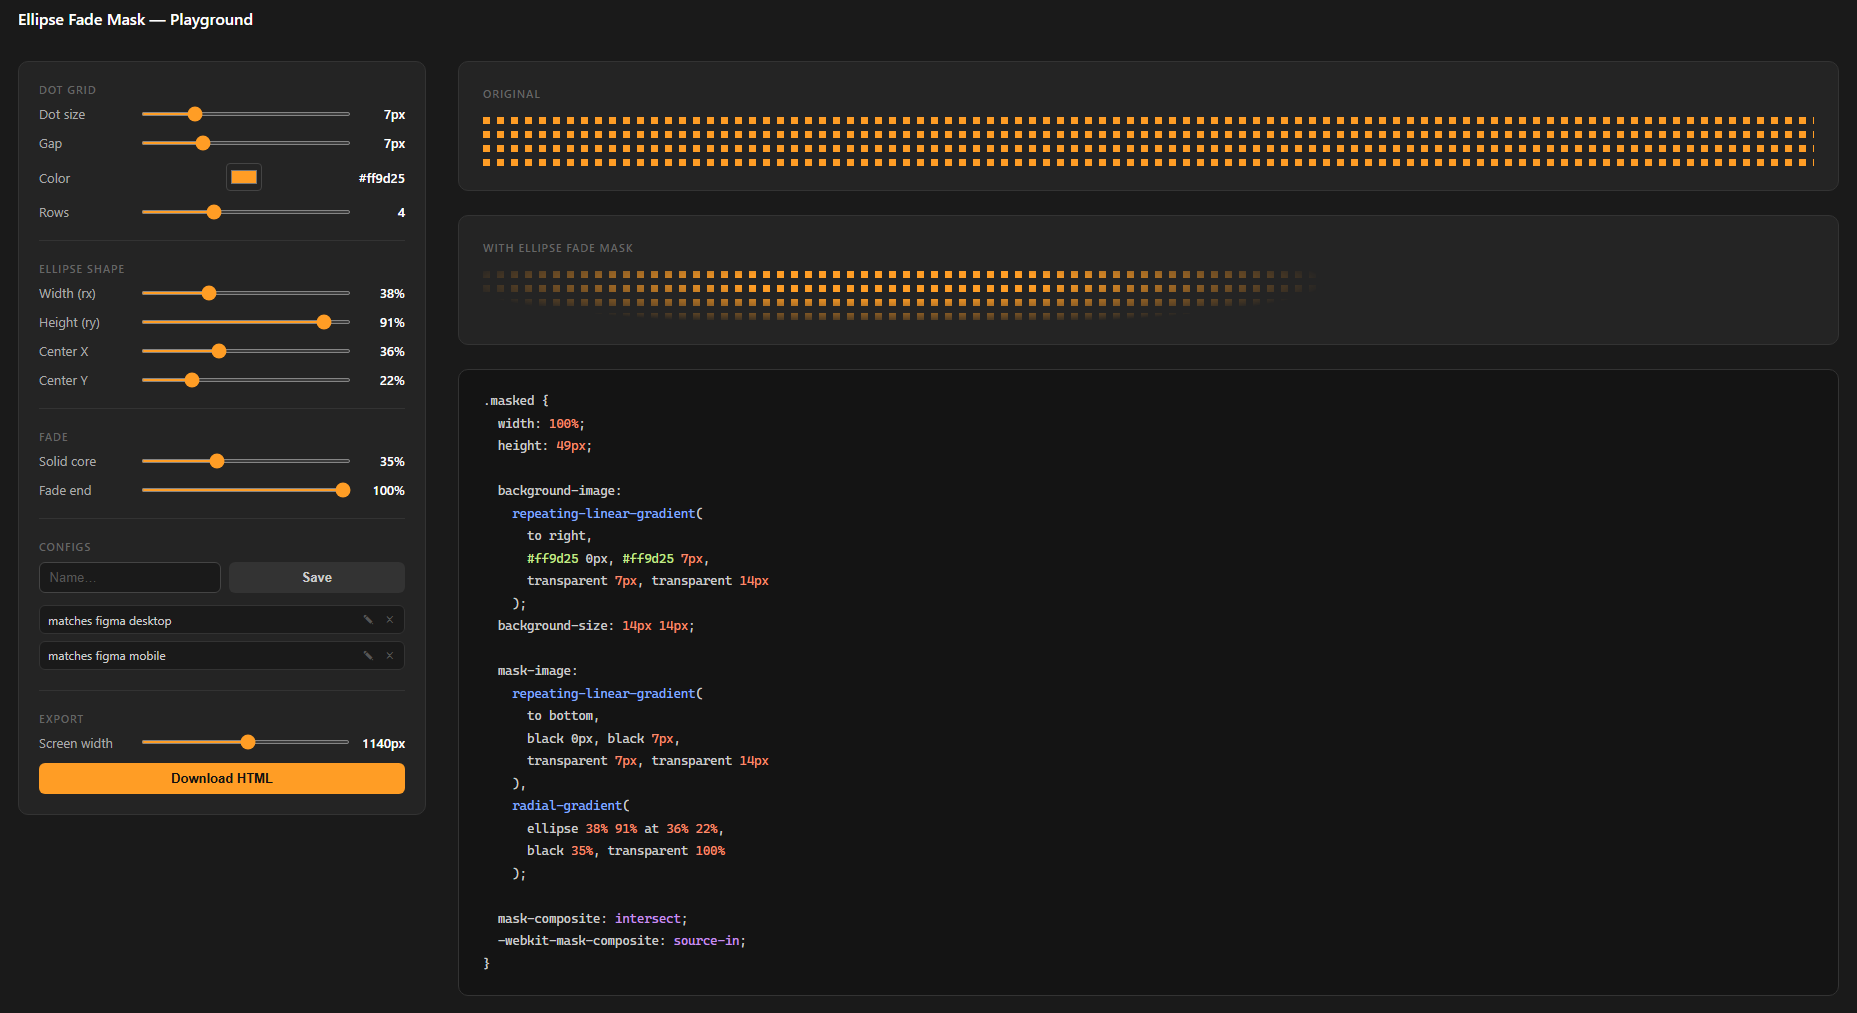
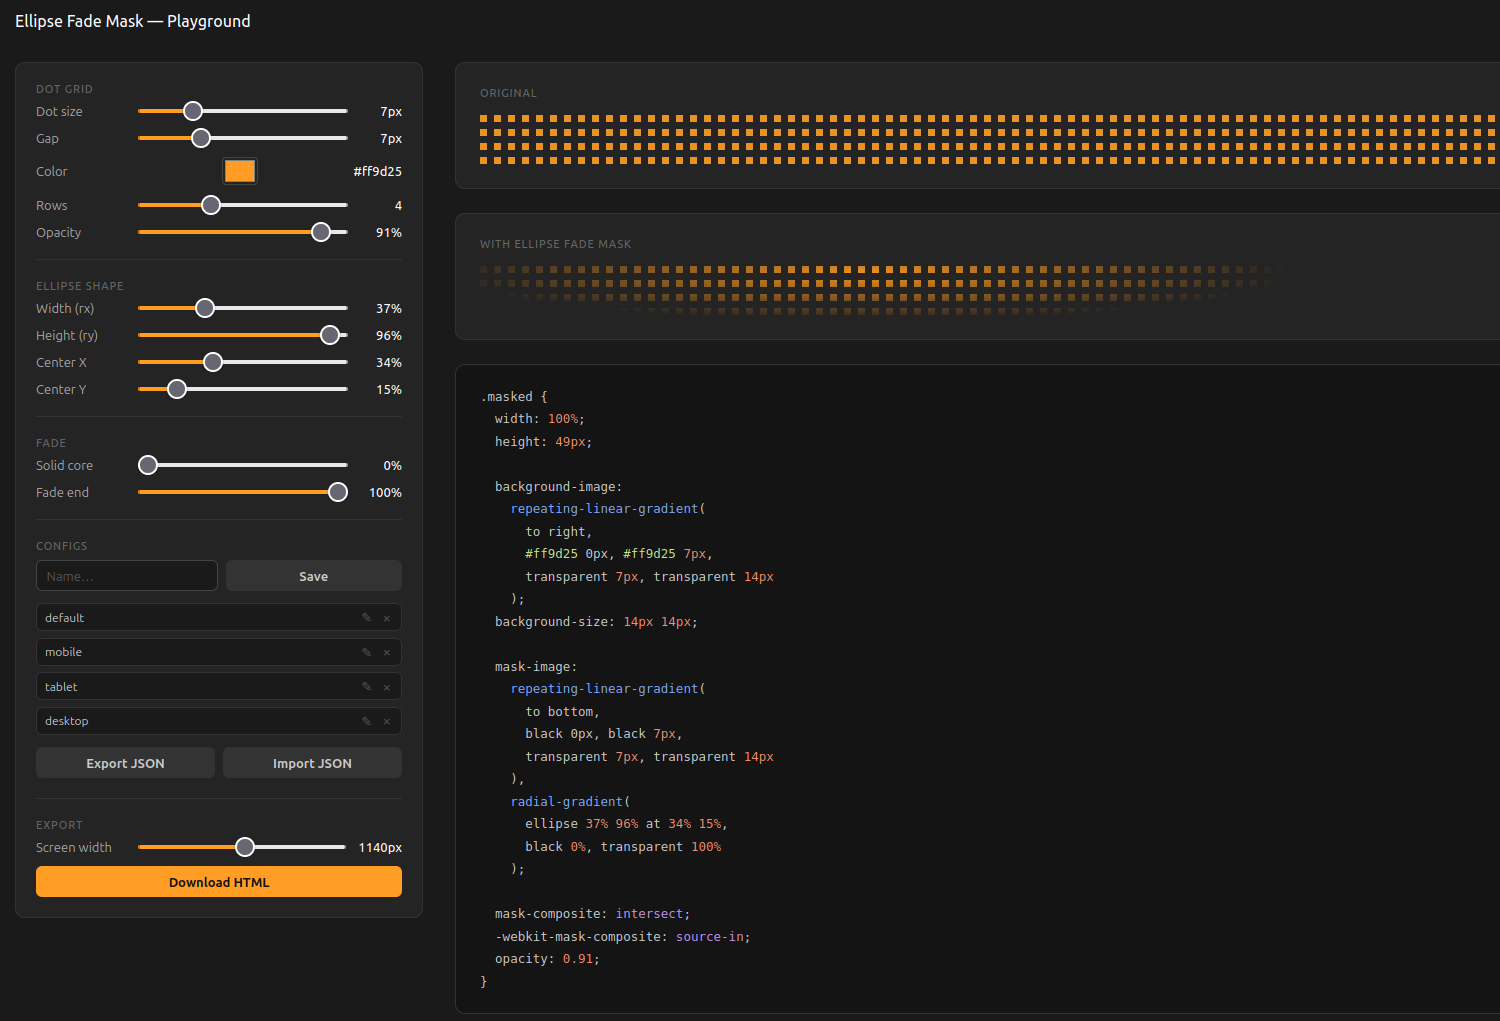
fixed saving of config in local storage, added examples in output folder, added a configs folder with an example config that matched the html files in the output folder

diff --git a/ellipse-mask-playground.html b/ellipse-mask-playground.html
@@ -281,6 +281,11 @@
           <input type="range" id="rows" min="1" max="10" value="4" step="1">
           <span class="val" id="rowsVal">4</span>
         </div>
+        <div class="row">
+          <label>Opacity</label>
+          <input type="range" id="opacity" min="0" max="100" value="100" step="1">
+          <span class="val" id="opacityVal">100%</span>
+        </div>
       </div>
     </div>
 
@@ -340,6 +345,11 @@
           <button class="btn" id="saveConfigBtn">Save</button>
         </div>
         <div class="saved-list" id="savedList"></div>
+        <div class="save-row">
+          <button class="btn" id="exportConfigsBtn">Export JSON</button>
+          <button class="btn" id="importConfigsBtn">Import JSON</button>
+          <input type="file" id="importConfigsInput" accept=".json" style="display:none">
+        </div>
       </div>
     </div>
 
@@ -384,7 +394,7 @@
 </div>
 
 <script>
-const ids = ['dotSize','gap','dotColor','rows','rx','ry','cx','cy','fadeStart','fadeEnd','exportWidth'];
+const ids = ['dotSize','gap','dotColor','rows','opacity','rx','ry','cx','cy','fadeStart','fadeEnd','exportWidth'];
 const els = {};
 ids.forEach(id => els[id] = document.getElementById(id));
 
@@ -396,6 +406,7 @@ function currentConfig() {
     gap: parseInt(v('gap')),
     color: v('dotColor'),
     rows: parseInt(v('rows')),
+    opacity: parseInt(v('opacity')),
     rx: parseInt(v('rx')),
     ry: parseInt(v('ry')),
     cx: parseInt(v('cx')),
@@ -407,7 +418,7 @@ function currentConfig() {
 }
 
 function update() {
-  const { dotSize, gap, color, rows, rx, ry, cx, cy, fadeStart, fadeEnd } = currentConfig();
+  const { dotSize, gap, color, rows, opacity, rx, ry, cx, cy, fadeStart, fadeEnd } = currentConfig();
   const step = dotSize + gap;
   const height = rows * step - gap;
 
@@ -415,6 +426,7 @@ function update() {
   document.getElementById('gapVal').textContent = gap + 'px';
   document.getElementById('dotColorVal').textContent = color;
   document.getElementById('rowsVal').textContent = rows;
+  document.getElementById('opacityVal').textContent = opacity + '%';
   document.getElementById('rxVal').textContent = rx + '%';
   document.getElementById('ryVal').textContent = ry + '%';
   document.getElementById('cxVal').textContent = cx + '%';
@@ -433,6 +445,7 @@ function update() {
   orig.style.backgroundSize = `${step}px ${step}px`;
   orig.style.maskImage = vGrad;
   orig.style.webkitMaskImage = vGrad;
+  orig.style.opacity = opacity / 100;
 
   const masked = document.getElementById('dotsMasked');
   masked.style.width = parseInt(v('exportWidth')) + 'px';
@@ -444,6 +457,7 @@ function update() {
   masked.style.webkitMaskImage = combinedMask;
   masked.style.maskComposite = 'intersect';
   masked.style.webkitMaskComposite = 'source-in';
+  masked.style.opacity = opacity / 100;
 
   document.getElementById('codeOut').innerHTML =
 `.masked {
@@ -470,23 +484,22 @@ function update() {
     );
 
   mask-composite: <span class="kw">intersect</span>;
-  -webkit-mask-composite: <span class="kw">source-in</span>;
+  -webkit-mask-composite: <span class="kw">source-in</span>;${opacity < 100 ? `
+  opacity: <span class="val-c">${opacity / 100}</span>;` : ''}
 }`;
 }
 
 ids.forEach(id => els[id].addEventListener('input', update));
 update();
 
-// --- Saved configs (localStorage) ---
-
-const STORAGE_KEY = 'ellipse-mask-configs';
+// --- Saved configs (localStorage, with JSON export/import for git) ---
 
 function getSaved() {
-  try { return JSON.parse(localStorage.getItem(STORAGE_KEY)) || {}; } catch { return {}; }
+  try { return JSON.parse(localStorage.getItem('ellipse-mask-configs')) || {}; } catch { return {}; }
 }
 
 function putSaved(configs) {
-  localStorage.setItem(STORAGE_KEY, JSON.stringify(configs));
+  localStorage.setItem('ellipse-mask-configs', JSON.stringify(configs));
 }
 
 let lastLoadedName = 'ellipse-mask';
@@ -494,7 +507,7 @@ let lastLoadedName = 'ellipse-mask';
 function applyConfig(config, name) {
   if (name) lastLoadedName = name;
   const map = {
-    dotSize: 'dotSize', gap: 'gap', color: 'dotColor', rows: 'rows',
+    dotSize: 'dotSize', gap: 'gap', color: 'dotColor', rows: 'rows', opacity: 'opacity',
     rx: 'rx', ry: 'ry', cx: 'cx', cy: 'cy',
     fadeStart: 'fadeStart', fadeEnd: 'fadeEnd', exportWidth: 'exportWidth'
   };
@@ -605,10 +618,38 @@ document.getElementById('configName').addEventListener('keydown', e => {
 
 renderSavedList();
 
+document.getElementById('exportConfigsBtn').addEventListener('click', () => {
+  const blob = new Blob([JSON.stringify(getSaved(), null, 2)], { type: 'application/json' });
+  const a = document.createElement('a');
+  a.href = URL.createObjectURL(blob);
+  a.download = 'ellipse-mask-configs.json';
+  a.click();
+  URL.revokeObjectURL(a.href);
+});
+
+document.getElementById('importConfigsBtn').addEventListener('click', () => {
+  document.getElementById('importConfigsInput').click();
+});
+
+document.getElementById('importConfigsInput').addEventListener('change', e => {
+  const file = e.target.files[0];
+  if (!file) return;
+  const reader = new FileReader();
+  reader.onload = ev => {
+    try {
+      const configs = JSON.parse(ev.target.result);
+      putSaved(configs);
+      renderSavedList();
+    } catch { alert('Invalid JSON file.'); }
+  };
+  reader.readAsText(file);
+  e.target.value = '';
+});
+
 // --- Export ---
 
 document.getElementById('exportBtn').addEventListener('click', async () => {
-  const { dotSize, gap, color, rows, rx, ry, cx, cy, fadeStart, fadeEnd, exportWidth: screenWidth } = currentConfig();
+  const { dotSize, gap, color, rows, opacity, rx, ry, cx, cy, fadeStart, fadeEnd, exportWidth: screenWidth } = currentConfig();
   const step = dotSize + gap;
   const height = rows * step - gap;
   const suggestedName = lastLoadedName.replace(/\.html$/i, '') + '.html';
@@ -643,7 +684,8 @@ document.getElementById('exportBtn').addEventListener('click', async () => {
         black ${fadeStart}%, transparent ${fadeEnd}%
       );
     mask-composite: intersect;
-    -webkit-mask-composite: source-in;
+    -webkit-mask-composite: source-in;${opacity < 100 ? `
+    opacity: ${opacity / 100};` : ''}
   }
 </style>
 </head>

diff --git a/output/desktop.html b/output/desktop.html
@@ -1,0 +1,39 @@
+<!DOCTYPE html>
+<html lang="en">
+<head>
+<meta charset="UTF-8">
+<meta name="viewport" content="width=device-width, initial-scale=1.0">
+<title>desktop</title>
+<style>
+  * { box-sizing: border-box; margin: 0; padding: 0; }
+  body { background: #1a1a1a; }
+  .masked {
+    width: 1140px;
+    height: 49px;
+    background-image:
+      repeating-linear-gradient(
+        to right,
+        #ff9d25 0px, #ff9d25 7px,
+        transparent 7px, transparent 14px
+      );
+    background-size: 14px 14px;
+    mask-image:
+      repeating-linear-gradient(
+        to bottom,
+        black 0px, black 7px,
+        transparent 7px, transparent 14px
+      ),
+      radial-gradient(
+        ellipse 37% 96% at 34% 15%,
+        black 0%, transparent 100%
+      );
+    mask-composite: intersect;
+    -webkit-mask-composite: source-in;
+    opacity: 0.91;
+  }
+</style>
+</head>
+<body>
+<div class="masked"></div>
+</body>
+</html>

diff --git a/output/mobile.html b/output/mobile.html
@@ -1,0 +1,39 @@
+<!DOCTYPE html>
+<html lang="en">
+<head>
+<meta charset="UTF-8">
+<meta name="viewport" content="width=device-width, initial-scale=1.0">
+<title>mobile</title>
+<style>
+  * { box-sizing: border-box; margin: 0; padding: 0; }
+  body { background: #1a1a1a; }
+  .masked {
+    width: 360px;
+    height: 63px;
+    background-image:
+      repeating-linear-gradient(
+        to right,
+        #ff9d25 0px, #ff9d25 7px,
+        transparent 7px, transparent 14px
+      );
+    background-size: 14px 14px;
+    mask-image:
+      repeating-linear-gradient(
+        to bottom,
+        black 0px, black 7px,
+        transparent 7px, transparent 14px
+      ),
+      radial-gradient(
+        ellipse 36% 96% at 46% 7%,
+        black 29%, transparent 100%
+      );
+    mask-composite: intersect;
+    -webkit-mask-composite: source-in;
+    opacity: 0.62;
+  }
+</style>
+</head>
+<body>
+<div class="masked"></div>
+</body>
+</html>

diff --git a/output/tablet.html b/output/tablet.html
@@ -1,0 +1,39 @@
+<!DOCTYPE html>
+<html lang="en">
+<head>
+<meta charset="UTF-8">
+<meta name="viewport" content="width=device-width, initial-scale=1.0">
+<title>tablet</title>
+<style>
+  * { box-sizing: border-box; margin: 0; padding: 0; }
+  body { background: #1a1a1a; }
+  .masked {
+    width: 780px;
+    height: 63px;
+    background-image:
+      repeating-linear-gradient(
+        to right,
+        #ff9d25 0px, #ff9d25 7px,
+        transparent 7px, transparent 14px
+      );
+    background-size: 14px 14px;
+    mask-image:
+      repeating-linear-gradient(
+        to bottom,
+        black 0px, black 7px,
+        transparent 7px, transparent 14px
+      ),
+      radial-gradient(
+        ellipse 37% 96% at 46% 7%,
+        black 0%, transparent 100%
+      );
+    mask-composite: intersect;
+    -webkit-mask-composite: source-in;
+    opacity: 0.76;
+  }
+</style>
+</head>
+<body>
+<div class="masked"></div>
+</body>
+</html>

diff --git a/README.md b/README.md
@@ -36,20 +36,22 @@ Open `ellipse-mask-playground.html` directly in a browser — no build step or s
 
 | Section | Controls |
 |---|---|
-| Dot grid | Dot size, gap, colour, number of rows |
+| Dot grid | Dot size, gap, colour, number of rows, opacity |
 | Ellipse shape | Width (rx), height (ry), center X/Y |
 | Fade | Solid core radius, fade-out end |
-| Configs | Save, load, rename and delete named configurations (persisted in `localStorage`) |
+| Configs | Save, load, rename and delete named configurations |
 | Export | Screen width slider + Download HTML |
 
 ### Configs
 
 Type a name and click **Save** (or press Enter) to store the current settings. Saved configs appear as a list — click a name to load it, click **✎** to rename inline, click **×** to delete.
 
+Configs are persisted in `localStorage` and survive page reloads.
+
+Configs are placed manually in the `configs/`folder. Load a config via **Import JSON**. To save updated configs, use **Export JSON** and move the downloaded file into `configs/` manually.
+
 ### Exporting
 
-Set the target screen width with the slider, then click **Download HTML**. A native Save As dialog opens with the filename pre-filled from the loaded config name. Save the file into the `output/` folder.
+Set the target screen width with the slider, then click **Download HTML**. A native Save As dialog opens with the filename pre-filled from the loaded config name.
 
-## Output
-
-Exported files go in `output/`. Each file is a standalone HTML snippet containing only the `.masked` div and its CSS.
+`output/` contains manually exported examples — it is not a build artifact.
